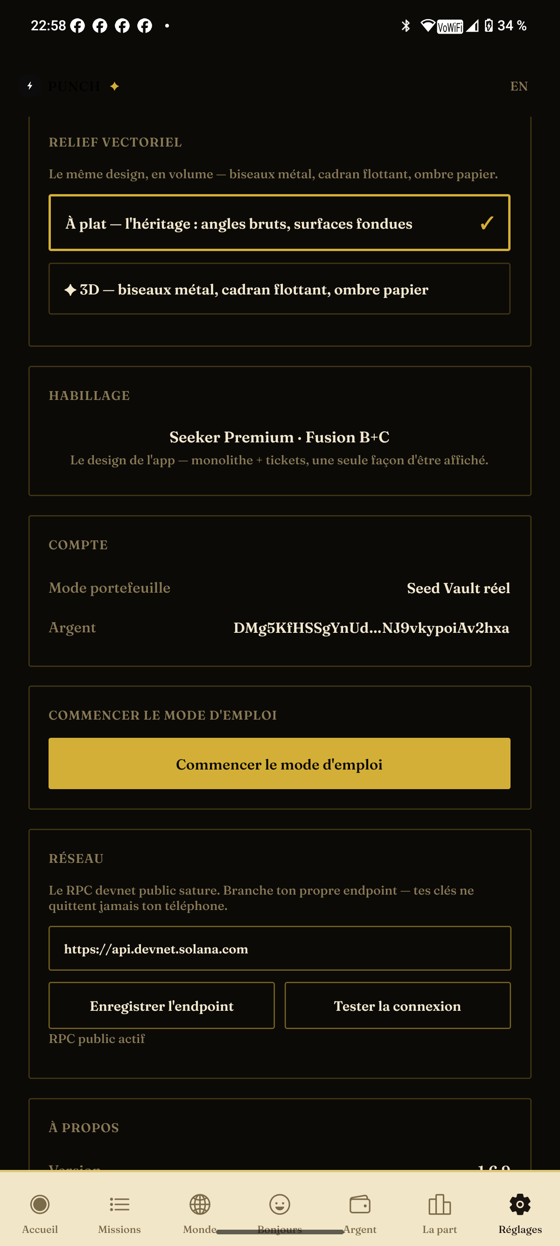
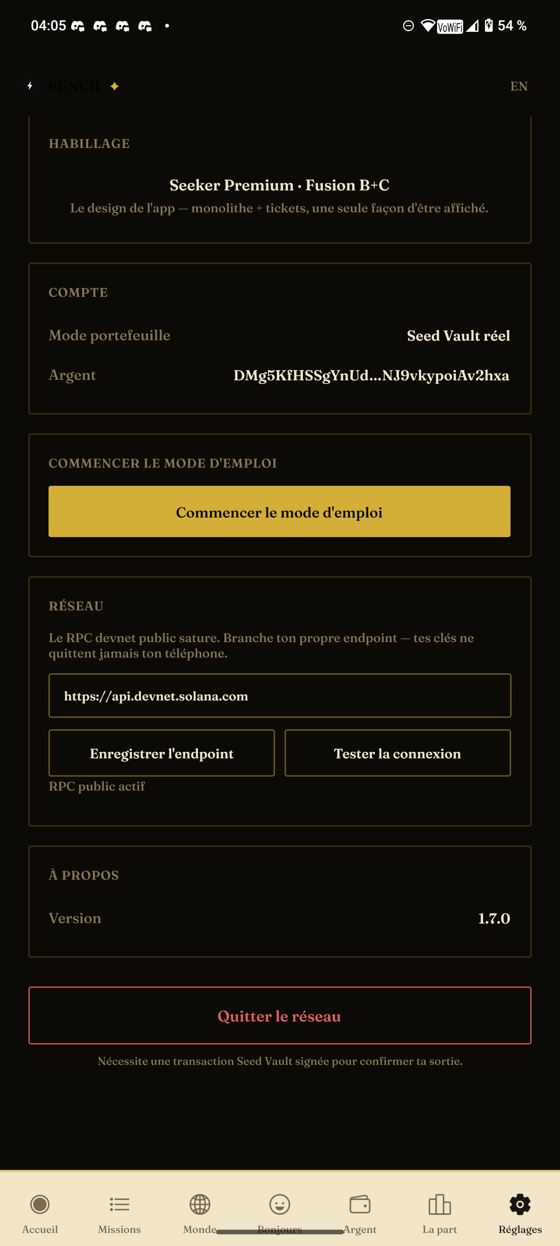
Vitrine v1.7.0 : nouvelles captures device (accueil connecte + Reglages avec Version 1.7.0), MANIFEST 1.7.0, badges sha256 mis a jour (guide-jury, proof)

diff --git a/docs/site/guide-jury.html b/docs/site/guide-jury.html
@@ -68,8 +68,8 @@
 
   <h2>What you'll see on the device</h2>
   <div class="shots">
-    <figure><img src="device/home.png" alt="Home screen — Clock in, Demo · live label, nearby Seekers" loading="lazy"><figcaption><b>Home</b> — local-time clock, CLOCK IN bolt, the people-here stat honestly labeled <b>“Démo · en direct”</b>, nearby Seekers.</figcaption><a class="hash" href="device/MANIFEST.json" title="SHA-256 checked in CI against device/MANIFEST.json — what's online is what the phone produced">✓ 5e5a7e01</a></figure>
-    <figure><img src="device/settings.png" alt="Settings — Network section, RPC public actif, Version 1.6.9, Quitter le réseau" loading="lazy"><figcaption><b>Settings</b> — one screen holds it all: Network section with the RPC test (<b>“RPC public actif”</b>), <b>Version 1.6.9</b>, and the signed <b>“Quitter le réseau”</b> exit.</figcaption><a class="hash" href="device/MANIFEST.json" title="SHA-256 checked in CI against device/MANIFEST.json — what's online is what the phone produced">✓ c38b5ffd</a></figure>
+    <figure><img src="device/home.png" alt="Home screen — Clock in, Demo · live label, nearby Seekers" loading="lazy"><figcaption><b>Home</b> — local-time clock, CLOCK IN bolt, the people-here stat honestly labeled <b>“Démo · en direct”</b>, nearby Seekers.</figcaption><a class="hash" href="device/MANIFEST.json" title="SHA-256 checked in CI against device/MANIFEST.json — what's online is what the phone produced">✓ 7a0be29b</a></figure>
+    <figure><img src="device/settings.png" alt="Settings — Network section, RPC public actif, Version 1.7.0, Quitter le réseau" loading="lazy"><figcaption><b>Settings</b> — one screen holds it all: Network section with the RPC test (<b>“RPC public actif”</b>), <b>Version 1.7.0</b>, and the signed <b>“Quitter le réseau”</b> exit.</figcaption><a class="hash" href="device/MANIFEST.json" title="SHA-256 checked in CI against device/MANIFEST.json — what's online is what the phone produced">✓ f140ed1c</a></figure>
   </div>
 
   <a class="btn ghost" href="index.html">← Back · Retour</a>
@@ -104,8 +104,8 @@
 
   <h2>Ce que vous verrez sur l'appareil</h2>
   <div class="shots">
-    <figure><img src="device/home.png" alt="Accueil — Clock in, étiquette Démo · en direct, Seekers proches" loading="lazy"><figcaption><b>Accueil</b> — horloge heure locale, éclair CLOCK IN, la stat personnes là honnêtement étiquetée <b>« Démo · en direct »</b>, Seekers proches.</figcaption><a class="hash" href="device/MANIFEST.json" title="SHA-256 vérifié en CI contre device/MANIFEST.json — ce qui est en ligne est ce que le téléphone a produit">✓ 5e5a7e01</a></figure>
-    <figure><img src="device/settings.png" alt="Réglages — section Réseau, RPC public actif, Version 1.6.9, Quitter le réseau" loading="lazy"><figcaption><b>Réglages</b> — un seul écran réunit tout : section Réseau avec test RPC (<b>« RPC public actif »</b>), <b>Version 1.6.9</b> et la sortie signée <b>« Quitter le réseau »</b>.</figcaption><a class="hash" href="device/MANIFEST.json" title="SHA-256 vérifié en CI contre device/MANIFEST.json — ce qui est en ligne est ce que le téléphone a produit">✓ c38b5ffd</a></figure>
+    <figure><img src="device/home.png" alt="Accueil — Clock in, étiquette Démo · en direct, Seekers proches" loading="lazy"><figcaption><b>Accueil</b> — horloge heure locale, éclair CLOCK IN, la stat personnes là honnêtement étiquetée <b>« Démo · en direct »</b>, Seekers proches.</figcaption><a class="hash" href="device/MANIFEST.json" title="SHA-256 vérifié en CI contre device/MANIFEST.json — ce qui est en ligne est ce que le téléphone a produit">✓ 7a0be29b</a></figure>
+    <figure><img src="device/settings.png" alt="Réglages — section Réseau, RPC public actif, Version 1.7.0, Quitter le réseau" loading="lazy"><figcaption><b>Réglages</b> — un seul écran réunit tout : section Réseau avec test RPC (<b>« RPC public actif »</b>), <b>Version 1.7.0</b> et la sortie signée <b>« Quitter le réseau »</b>.</figcaption><a class="hash" href="device/MANIFEST.json" title="SHA-256 vérifié en CI contre device/MANIFEST.json — ce qui est en ligne est ce que le téléphone a produit">✓ f140ed1c</a></figure>
   </div>
 
   <a class="btn ghost" href="index.html">← Retour</a>

diff --git a/docs/site/proof.html b/docs/site/proof.html
@@ -49,14 +49,14 @@
 
   <h2>Screenshots · Captures</h2>
   <div class="shots">
-    <figure><img src="device/home.png" alt="home.png" loading="lazy"><figcaption><b>home.png</b> · v1.6.9</figcaption></figure>
-    <figure><img src="device/settings.png" alt="settings.png" loading="lazy"><figcaption><b>settings.png</b> · v1.6.9</figcaption></figure>
+    <figure><img src="device/home.png" alt="home.png" loading="lazy"><figcaption><b>home.png</b> · v1.7.0</figcaption></figure>
+    <figure><img src="device/settings.png" alt="settings.png" loading="lazy"><figcaption><b>settings.png</b> · v1.7.0</figcaption></figure>
   </div>
   <div class="card">
     <table>
       <tr><th>FILE · FICHIER</th><th>SHA-256</th><th>BYTES · OCTETS</th></tr>
-      <tr><td><b>home.png</b><br><span class="mono">device/home.png</span></td><td class="mono">5e5a7e01f2b718a8a60c52718f4cba0e95467c416a5e36b69db509d560403d9e</td><td>174148</td></tr>
-      <tr><td><b>settings.png</b><br><span class="mono">device/settings.png</span></td><td class="mono">c38b5ffde84ac441c2834f614400575369d72aebbc519e4487c328cf091e30da</td><td>144098</td></tr>
+      <tr><td><b>home.png</b><br><span class="mono">device/home.png</span></td><td class="mono">7a0be29b06476c9e440b9b313c9f3b91be2043bc3ebfac838780e6ff68dc12c6</td><td>127436</td></tr>
+      <tr><td><b>settings.png</b><br><span class="mono">device/settings.png</span></td><td class="mono">f140ed1c619a85a2c17d6f2b33d7f5f5d585ab4c53f67d7badb13d5babc45c80</td><td>122276</td></tr>
     </table>
     <p class="mono" style="margin-top:10px">Verify: <b>certutil -hashfile home.png SHA256</b> (Windows) · <b>shasum -a 256 home.png</b> (macOS/Linux) · then compare with the table above.</p>
   </div>
